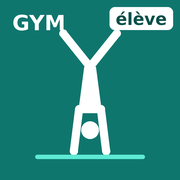
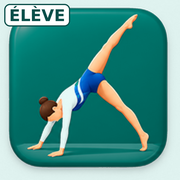
Nouvelles icônes gymnastique (visuel choisi par Yannick)
Claude-Session: https://claude.ai/code/session_01W45JVKsQKW4xh1AxP6R2BL

diff --git a/outils/icone2.py b/outils/icone2.py
@@ -1,0 +1,25 @@
+"""Icônes gym à partir du visuel choisi par Yannick : carré arrondi recoloré au vert sarcelle de la gym (#0f766e),
+fond pâle de la charte (#dff2ef), étiquette ÉLÈVE / PROF."""
+import sys, colorsys
+from PIL import Image, ImageDraw, ImageFont
+src, mot, out = sys.argv[1], sys.argv[2], sys.argv[3]
+im = Image.open(src).convert('RGB').resize((1024, 1024), Image.LANCZOS)
+W, H = im.size; px = im.load()
+FOND = (223, 242, 239)  # #dff2ef
+def hsv(p): return colorsys.rgb_to_hsv(*[c / 255 for c in p])
+for y in range(H):
+    for x in range(W):
+        h, s, v = hsv(px[x, y])
+        if 0.44 < h < 0.56 and s > 0.12:          # encadré turquoise → vert sarcelle, dégradés conservés
+            r, g, b = colorsys.hsv_to_rgb(0.487, min(1, s * 1.05), v * 0.64)
+            px[x, y] = (int(r * 255), int(g * 255), int(b * 255))
+        elif s < 0.08 and v > 0.70:                  # fond blanc/gris (avec l'ombre) → fond pâle, ombre conservée
+            k = v / 0.97
+            px[x, y] = tuple(int(min(255, c * k)) for c in FOND)
+d = ImageDraw.Draw(im)
+f = ImageFont.truetype('/usr/share/fonts/truetype/dejavu/DejaVuSans-Bold.ttf', 92)
+tw = d.textlength(mot, font=f); x0, y0 = 24, 22
+fond, encre = ('#ffffff', '#0b4f4a') if mot != 'PROF' else ('#1c2128', '#ffffff')
+d.rounded_rectangle([x0, y0, x0 + tw + 56, y0 + 128], radius=32, fill=fond, outline='#0b4f4a', width=7)
+d.text((x0 + 28, y0 + 12), mot, font=f, fill=encre)
+for n in (512, 192, 180, 32): im.resize((n, n), Image.LANCZOS).save(f'{out}/icon-{n}.png')
